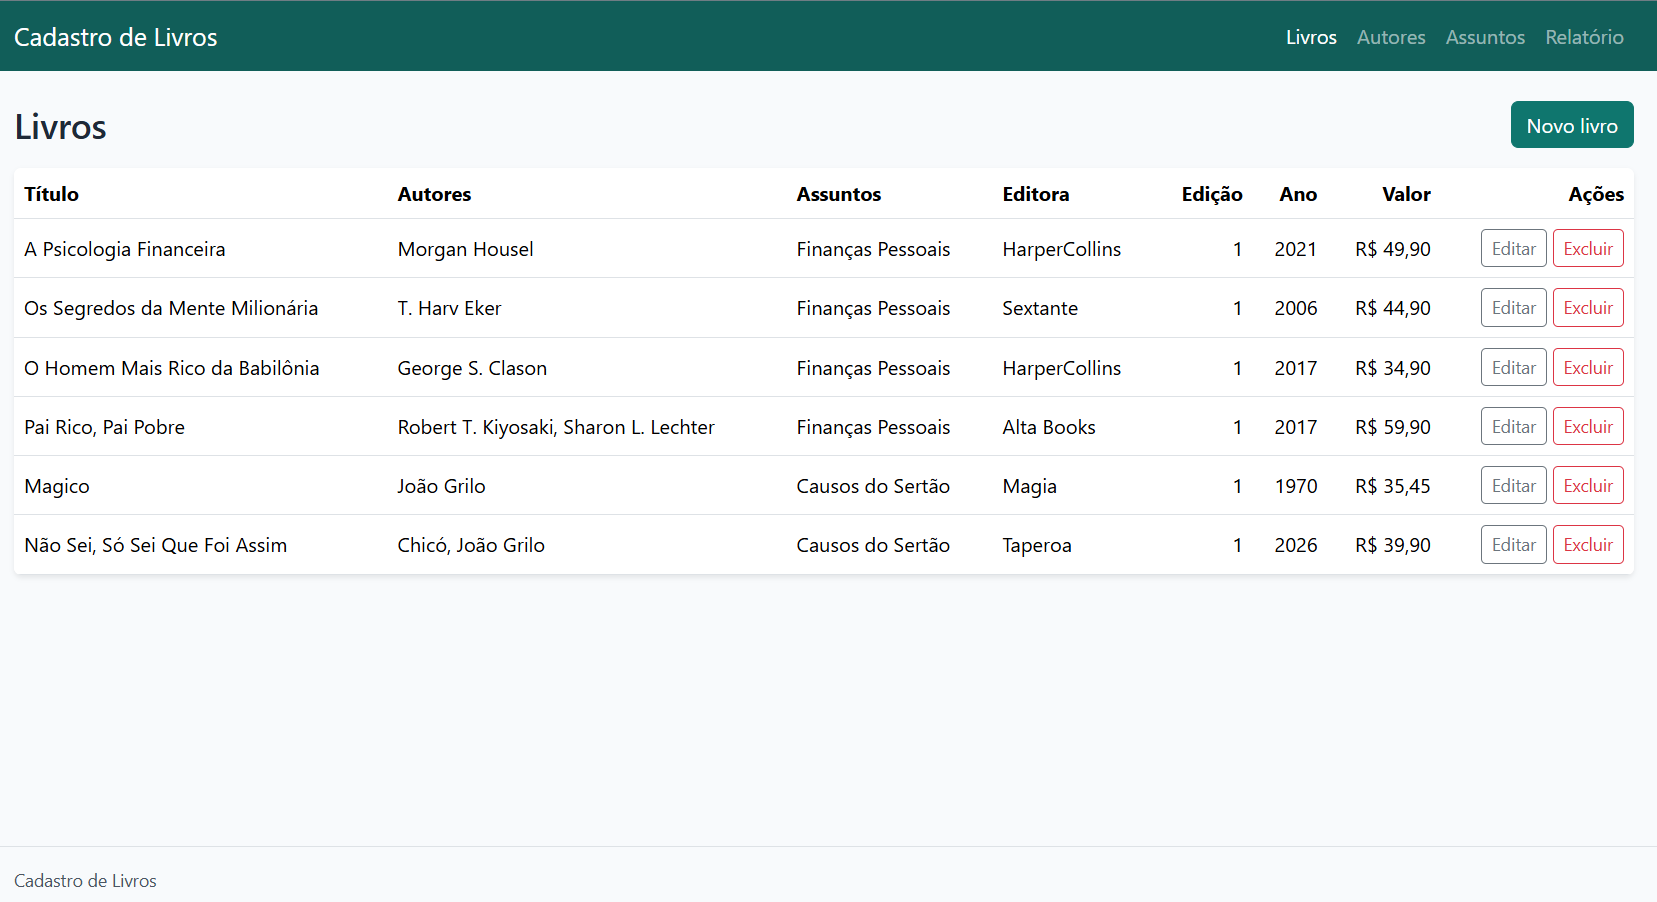
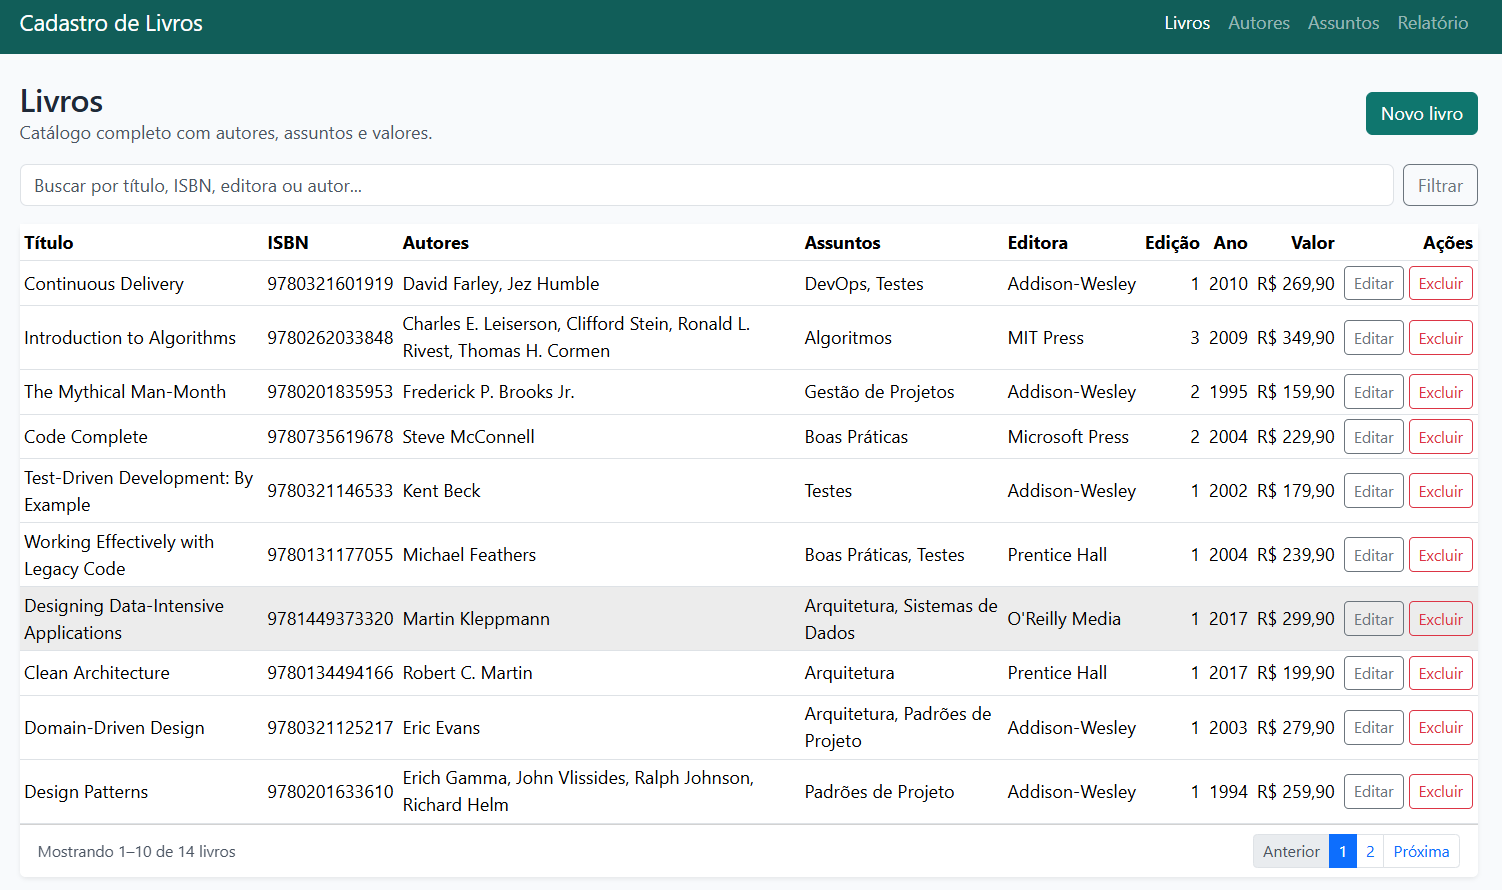
chore: novos prints do readme

diff --git a/views/livros/lista.php b/views/livros/lista.php
@@ -40,7 +40,7 @@
                             <td class="text-nowrap"><?= $this->e($livro['ISBN']) ?></td>
                             <td><?= $this->e($livro['Autores']) ?></td>
                             <td><?= $this->e($livro['Assuntos']) ?></td>
-                            <td><?= $this->e($livro['Editora']) ?></td>
+                            <td class="text-nowrap"><?= $this->e($livro['Editora']) ?></td>
                             <td class="text-end"><?= $this->e($livro['Edicao']) ?></td>
                             <td class="text-end"><?= $this->e($livro['AnoPublicacao']) ?></td>
                             <td class="text-end text-nowrap">
